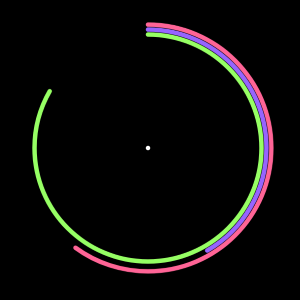
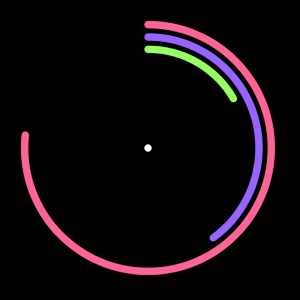
fix

Changed region(s): [[0.06, 0.06, 0.93, 0.93], [0.48, 0.48, 0.51, 0.51]]

diff --git a/works/work1/Sketch.js b/works/work1/Sketch.js
@@ -16,7 +16,7 @@ function draw() {
   let mn = minute();
   let sc = second();
 
-  strokeWeight(9);
+  strokeWeight(15);
   stroke(255, 100, 150);
   noFill();
   let secondAngle = map(sc, 0, 60, 0, 360);
@@ -24,11 +24,11 @@ function draw() {
 
   stroke(150, 100, 255);
   let minuteAngle = map(mn, 0, 60, 0, 360);
-  arc(0, 0, 480, 480, 0, minuteAngle);
+  arc(0, 0, 450, 450, 0, minuteAngle);
 
   stroke(150, 255, 100);
   let hourAngle = map(hr % 12, 0, 12, 0, 360);
-  arc(0, 0, 460, 460, 0, hourAngle);
+  arc(0, 0, 400, 400, 0, hourAngle);
 
   stroke(255);
   point(0, 0);
